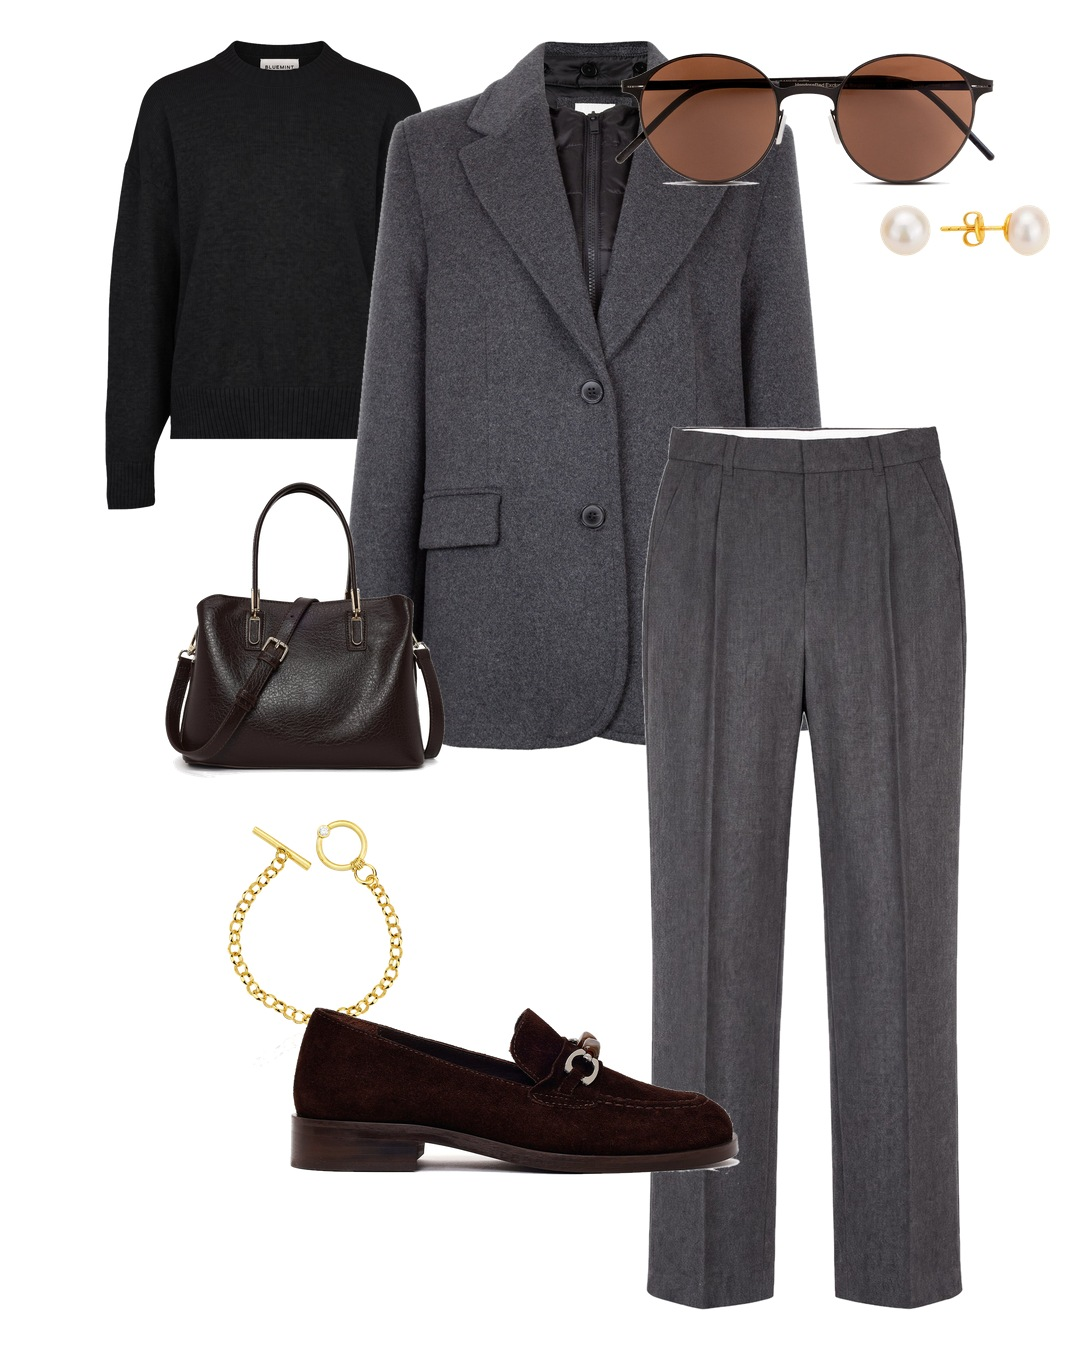
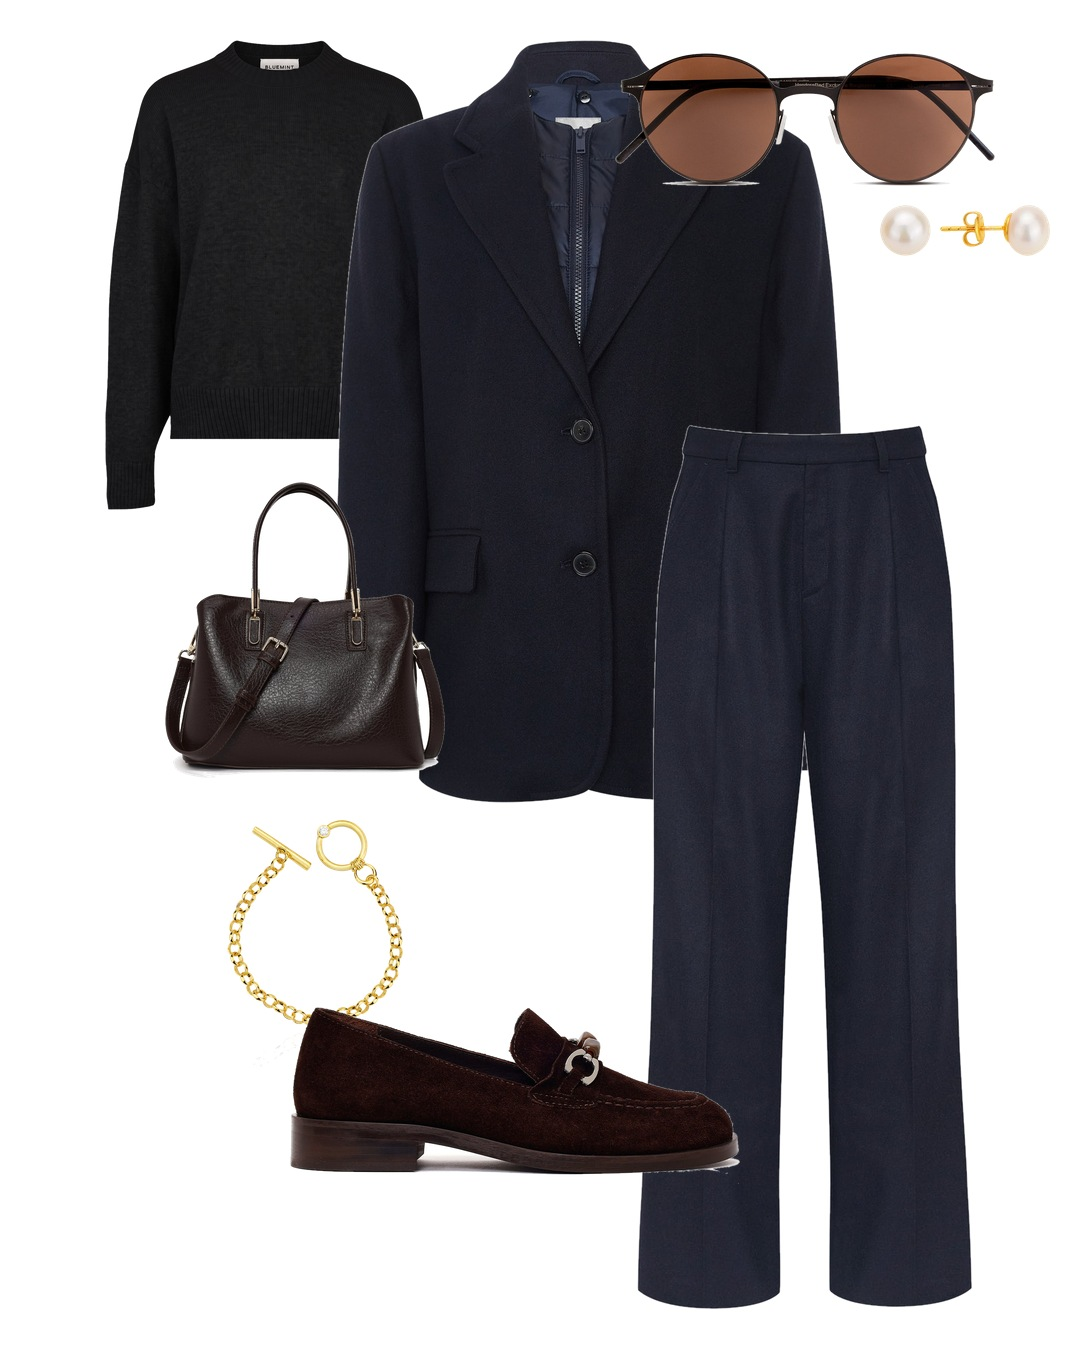
Apply navy accent to day and men's looks per Pantone AW26 check
Claude-Session: https://claude.ai/code/session_017rYiNWXHBCHyhRSoaNmMyY

diff --git a/scripts/pinterest/desc.py b/scripts/pinterest/desc.py
@@ -1,11 +1,11 @@
 import json,subprocess,os,sys
 exec(open('collage2.py').read().rsplit("if __name__",1)[0])
 BR={G:'Bluemint',A:'Arzu Kaprol',D:'Derimod',Lv:'Lovy Atelier'}
-NM={'LANA':'LANA yün blazer, antrasit','REINE':'REINE yün triko, siyah','DORA':'DORA pileli pantolon, antrasit melanj','DACK':'DACK %100 yün ceket, antrasit','MIKE':'MIKE triko, camel','EMORY':'EMORY fitilli kadife pantolon, kahve','SOPHIA':'SOPHIA kruvaze yün palto, camel','RINO':'RINO yün atkı, koyu kahve','JAVIER':'JAVIER güneş gözlüğü, kahve cam','SMITH':'SMITH güneş gözlüğü, kaplumbağa','IVES':'IVES güneş gözlüğü, altın çerçeve','BM WATCH OCEANIC':'BM Watch Oceanic 43 mm, siyah'}
-TITLE={'gunduz':'Antrasit & Bitter · Kadın · Kasım gündüz','erkek':'Antrasit & Camel · Erkek · Hafta sonu','aksam':'Siyah & Camel · Kadın · Kasım akşamı'}
+NM={'LANA':'LANA yün blazer, lacivert','REINE':'REINE yün triko, siyah','DORA':'DORA pileli pantolon, lacivert','DACK':'DACK %100 yün ceket, lacivert','MIKE':'MIKE triko, camel','EMORY':'EMORY fitilli kadife pantolon, kahve','SOPHIA':'SOPHIA kruvaze yün palto, camel','RINO':'RINO yün atkı, koyu kahve','JAVIER':'JAVIER güneş gözlüğü, kahve cam','SMITH':'SMITH güneş gözlüğü, kaplumbağa','IVES':'IVES güneş gözlüğü, altın çerçeve','BM WATCH OCEANIC':'BM Watch Oceanic 43 mm, siyah'}
+TITLE={'gunduz':'Lacivert & Bitter · Kadın · Kasım gündüz','erkek':'Lacivert & Camel · Erkek · Hafta sonu','aksam':'Siyah & Camel · Kadın · Kasım akşamı'}
 YORUM={
-'gunduz':"Gri üstüne gri ama düz değil: blazerın yünü, pantolonun pilisi ve trikonun siyahı üç ayrı doku. Rengi kahve süet loafer ile deri çanta veriyor, altın sadece bileklikte. Toplantıdan akşam kahvesine üstünü değiştirmeden geçen bir kasım günü kombini.",
-'erkek':"Ceket yün, triko camel, pantolon fitilli kadife. Üç sıcak doku tek bir kahve paletinde buluşuyor. Boyunda koyu kahve örgü atkı, ayakta süet chelsea; dalgıç saat ve kaplumbağa gözlük hafta sonunu tamamlıyor.",
+'gunduz':"Lacivert blazer ve pileli pantolon takım gibi duruyor, siyah yün triko aralarında sakin kalıyor. Kahve süet loafer ile deri çanta laciverdi patlatıyor; Pantone'un AW26 paletinde de kahve ile derin mavi yan yana. Altın sadece bileklikte.",
+'erkek':"Lacivert yün ceketin altında camel triko ve kahve fitilli kadife: Pantone'un bu sezon önerdiği kahve + derin mavi eşleşmesi. Boyunda koyu kahve örgü atkı, ayakta süet chelsea; dalgıç saat ve kaplumbağa gözlük hafta sonunu tamamlıyor.",
 'aksam':"Camel palto açılınca altından drapeli siyah bluz ve kalem etek çıkıyor. Kahve stiletto ince topuklu, portföy süet. Işık inci küpede ve zirkon bileklikte, altın çerçeve gözlük de akşam güneşi için.",
 }
 out='/home/user/Ouisecretvie.studio/pinterest/2026-11-23'

diff --git a/scripts/pinterest/collage2.py b/scripts/pinterest/collage2.py
@@ -9,10 +9,10 @@ SL={'top':(105,40,350,500,'top'),'outer':(330,40,520,810,'top'),'glasses':(615,4
     'watch':(225,820,180,250,'center'),'shoes':(290,975,450,240,'center')}
 ORDER=['top','outer','bottom','bag','watch','shoes','glasses','earring']
 LOOKS={
- 'gunduz':{'top':P(G,'reine-black-triko'),'outer':P(G,'lana-dark-grey-melange-dis-giyim'),'bottom':P(G,'dora-dark-grey-melange-pantolon'),
+ 'gunduz':{'top':P(G,'reine-black-triko'),'outer':P(G,'lana-nuit-dis-giyim'),'bottom':P(G,'dora-nuit-pantolon'),
    'bag':P(D,'kadin-kahverengi-uzun-askili-klasik-kol-cantasi-ab590002sv-5637145360'),'watch':P(Lv,'ogi-bileklik'),
    'shoes':P(D,'kadin-kahverengi-tokali-suet-deri-maskulen-loafer-af180019ds-5637145360'),'glasses':P(G,'javier-brown-shade-gunes-gozlugu'),'earring':P(Lv,'tanura-i̇nci-kupe-kopya')},
- 'erkek':{'top':P(G,'mike-camel-triko'),'outer':P(G,'dack-anthracite-melange-ceket'),'bottom':P(G,'emory-brown-pantolon'),
+ 'erkek':{'top':P(G,'mike-camel-triko'),'outer':P(G,'dack-dark-navy-ceket'),'bottom':P(G,'emory-brown-pantolon'),
    'bag':P(G,'rino-brown-atki'),'watch':P(G,'bm-watch-oceanic-b79-001-43-mm-kol-saati'),
    'shoes':P(D,'erkek-kahverengi-suet-deri-chelsea-bot-wm610001ds-5637145360'),'glasses':P(G,'smith-brown-turtle-shade-gunes-gozlugu')},
  'aksam':{'top':P(A,'beyaz-drapeli-kolsuz-bluz-copy'),'outer':P(G,'sophia-camel-dis-giyim'),'bottom':P(A,'siyah-etek-2'),
